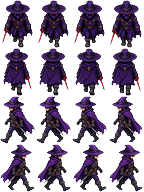
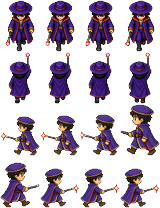
Sprite a volo d'uccello con arma che spara
Rigenera i 11 fogli in-game in vista dall'alto, ciascuno con bacchetta,
bastone o bottiglia puntata verso i nemici. I colpi partono dalla
bocca dell'arma invece che dal petto.

diff --git a/tempest.html b/tempest.html
@@ -295,6 +295,12 @@ function dirFromAngle(a){
   if(d<Math.PI*1.25)return 'left';
   return 'up';
 }
+function bodyY(e){return e.y-(e.sh||40)*0.38;}
+function muzzleOf(e,a,dist){
+  dist=dist==null?15:dist;
+  const y=bodyY(e);
+  return {x:e.x+Math.cos(a)*dist,y:y+Math.sin(a)*dist};
+}
 function loadAI(){
   const urls=Object.keys(AI_ASSETS);
   return Promise.all(urls.map(k=>new Promise(res=>{
@@ -510,7 +516,7 @@ miranda:{key:'miranda',name:'MIRANDA',title:"Figlia dell'isola, meraviglia",role
  last:'Ah, povero spirito... non volevo che finisse così. Che il cielo abbia pietà di noi.',
  lasten:'I have suffered with those that I saw suffer. (I.2)',
  banter:["«Ho sofferto con quelli che ho visto soffrire.»","«Che mondo nuovo è questo!»","«Abbi pietà: anche loro hanno paura.»","«Il cielo ci guarda, ne sono certa.»"],
- spr:{body:'dress',legs:'skirt',head:'long',weapon:'dagger'},
+ spr:{body:'dress',legs:'skirt',head:'long',weapon:'wand'},
  c:{main:'#8fb082',main2:'#dfe8d8',main3:'#f9fff4',dark:'#6b8a60',trim:'#f2c14e',skin:'#f0c09a',skinD:'#c08f68',hair:'#43291a',eye:'#2a1a2a',gem:'#fff6d0',boot:'#6b4a2a'},
  shot:{col:'#fff6d0',col2:'#f2c14e',r:2,kind:'thread'}},
 
@@ -529,7 +535,7 @@ ariel:{key:'ariel',name:'ARIEL',title:"Spirito dell'aria, servo a metà",role:'S
  last:"Libertà... era tutto ciò che chiedevo. Va': l'aria è tua, e io sono vento.",
  lasten:'Where the bee sucks, there suck I. (V.1)',
  banter:["«Dove succhia l'ape, succhio anch'io.»","«L'inferno è vuoto, e tutti i diavoli sono qui.»","«Sento la tempesta nelle ossa che non ho.»","«Canti tu? Io canto meglio.»"],
- spr:{body:'tunic',legs:'wisp',head:'wind',weapon:'wind',wings:true},
+ spr:{body:'tunic',legs:'wisp',head:'wind',weapon:'wand',wings:true},
  c:{main:'#6fb6de',main2:'#bfe9ff',main3:'#eafaff',dark:'#3f80a8',trim:'#f2e6a0',skin:'#dff2ff',skinD:'#a8d4ea',hair:'#9fd8f0',eye:'#0e3a52',gem:'#ffffff',boot:'#6fb6de'},
  shot:{col:'#eafaff',col2:'#9fd8f0',r:2,kind:'dart'}},
 
@@ -548,7 +554,7 @@ caliban:{key:'caliban',name:'CALIBAN',title:'Il selvaggio, figlio di Sicorace',r
  last:"Sarò saggio d'ora in poi, e cercherò la grazia. Che triplice asino sono stato, a prendere quell'ubriaco per un dio!",
  lasten:"I'll be wise hereafter, and seek for grace. (V.1)",
  banter:["«Non temere: l'isola è piena di dolci arie.»","«Questa terra è mia di diritto.»","«Non pungermi, spirito!»","«Gratta... sì, proprio lì.»"],
- spr:{body:'bare',legs:'bare',head:'wild',weapon:'claw',hunch:true},
+ spr:{body:'bare',legs:'bare',head:'wild',weapon:'staff',hunch:true},
  c:{main:'#5c7a44',main2:'#7a9c58',main3:'#a8c87c',dark:'#3b5230',trim:'#8a6a3a',skin:'#6d8f52',skinD:'#4a6636',hair:'#1d1a16',eye:'#ffd23a',gem:'#c8ff6a',boot:'#4a3a24'},
  shot:{col:'#b09a78',col2:'#e0d0b0',r:4,kind:'rock'}},
 
@@ -566,7 +572,7 @@ ferdinando:{key:'ferdinando',name:'FERDINANDO',title:'Principe di Napoli',role:'
  last:"Che il mondo nuovo che ho sognato non sia fatto del tuo stesso acciaio... Addio.",
  lasten:'Full many a lady I have eyed with best regard. (I.2)',
  banter:["«Per l'onore di Napoli!»","«Il lavoro più duro mi è dolce, se guardo avanti.»","«Questa musica viene dall'aria, o dalla mia testa?»","«Non indietreggio: sono un principe.»"],
- spr:{body:'tunic',legs:'pants',head:'plume',weapon:'sword'},
+ spr:{body:'tunic',legs:'pants',head:'plume',weapon:'scepter'},
  c:{main:'#8a2436',main2:'#b83a4a',main3:'#e8808f',dark:'#571420',trim:'#f2c14e',skin:'#eab892',skinD:'#c08a62',hair:'#6b4a2a',eye:'#1b1030',gem:'#dfe4ee',boot:'#3a2a1c'},
  shot:{col:'#dfe4ee',col2:'#ffffff',r:3,kind:'dart'}},
 
@@ -584,7 +590,7 @@ antonio:{key:'antonio',name:'ANTONIO',title:'L\'usurpatore, fratello traditore',
  last:"La verità che dico... manca di gentilezza. Fa' quel che devi: il potere non chiede perdono.",
  lasten:"I'll do my best to obtain forgiveness. (V.1)",
  banter:["«Ciò che è mio, lo prendo.»","«Il silenzio è la lama migliore.»","«Non fidarti: neppure di me.»","«Un altro gradino, e la corona è mia.»"],
- spr:{body:'robe',legs:'robe',head:'wide',weapon:'rapier'},
+ spr:{body:'robe',legs:'robe',head:'wide',weapon:'wand'},
  c:{main:'#241c34',main2:'#3a2c50',main3:'#6a5688',dark:'#140f20',trim:'#a02030',skin:'#dca87e',skinD:'#a87850',hair:'#1a1418',eye:'#c8304a',gem:'#a02030',boot:'#1a1418'},
  shot:{col:'#ff6a7a',col2:'#ffd0d8',r:3,kind:'bolt'}},
 
@@ -602,7 +608,7 @@ trinculo:{key:'trinculo',name:'TRINCULO',title:'Il buffone sopravvissuto',role:'
  last:"Che cos'abbiamo qui, un uomo o un pesce?... Va bene: ho perso. Suona i sonagli, buffone.",
  lasten:'What have we here? a man or a fish? (II.2)',
  banter:["«Che cos'abbiamo qui: un uomo o un pesce?»","«Quando ero a casa, ero in un posto migliore.»","«Se piove, mi nascondo sotto il mostro.»","«Non sono un codardo: sono prudente.»"],
- spr:{body:'rag',legs:'pants',head:'jester',weapon:'bell'},
+ spr:{body:'rag',legs:'pants',head:'jester',weapon:'wand'},
  c:{main:'#c8a020',main2:'#e8c840',main3:'#ffe98a',dark:'#8a6a10',trim:'#c83a4a',skin:'#f0c09a',skinD:'#c08f68',hair:'#8a5a2a',eye:'#2a1a2a',gem:'#8ef4ff',boot:'#5a4020'},
  shot:{col:'#ffe98a',col2:'#ffffff',r:2,kind:'orb'}},
 
@@ -633,7 +639,7 @@ const FOES={
        shot:{col:'#c9a6ff',col2:'#f0e0ff',r:3,kind:'orb'}},
  mutin:{name:'AMMUTINATO',spr:'mutin',sw:28,sh:34,hp:44,spd:1.0,r:9,dmg:9,rate:1.65,pspeed:2.75,range:205,score:110,aggro:235,
        shot:{col:'#ffcf6a',col2:'#fff0c0',r:2,kind:'bolt'},
-       cfg:{body:'rag',legs:'pants',head:'bandana',weapon:'cutlass'},
+       cfg:{body:'rag',legs:'pants',head:'bandana',weapon:'bottle'},
        c:{main:'#6a5a44',main2:'#8a7654',main3:'#ab9874',dark:'#463a2a',trim:'#8a2a22',skin:'#9fb07a',skinD:'#74825a',hair:'#2a2018',eye:'#ff5a3a',gem:'#dfe4ee',boot:'#3a2c1c'}}
 };
 
@@ -803,9 +809,14 @@ function drawHumanoid(g,cfg,variant,frame,opts){
     EL(g,cx,7+bob,6,3,C.main);R(g,cx-6,8+bob,12,2,C.main2);R(g,cx-6,10+bob,12,1,C.dark);R(g,cx-5,10+bob,10,3,C.hair);
   }
   const ax=atk?2:0;
-  if(S.weapon==='staff'){
-    R(g,cx+9+ax,2,2,29,'#5c3f22');R(g,cx+9+ax,2,1,29,'#8a6a3a');
+  if(S.weapon==='staff'||S.weapon==='scepter'){
+    const wood=S.weapon==='scepter'?'#d4b44a':'#5c3f22';
+    const wood2=S.weapon==='scepter'?'#ffe14a':'#8a6a3a';
+    R(g,cx+9+ax,2,2,29,wood);R(g,cx+9+ax,2,1,29,wood2);
     EL(g,cx+10+ax,3,4,4,shade(C.gem,.7));EL(g,cx+10+ax,3,3,3,C.gem);R(g,cx+10+ax,2,1,1,'#ffffff');
+  }else if(S.weapon==='wand'){
+    R(g,cx+10+ax,8,2,22,'#c8d0dc');R(g,cx+10+ax,8,1,22,'#ffffff');
+    EL(g,cx+11+ax,6,3,3,C.gem);R(g,cx+10+ax,5,2,2,'#fff6d0');
   }else if(S.weapon==='claw'){
     for(let i=0;i<3;i++)R(g,cx+7+ax,22+i*2+bob,5,1,'#e8e0c8');
     R(g,cx+6+ax,21+bob,3,6,C.skinD);
@@ -1535,6 +1546,7 @@ function heroFire(h){
   const dmg=d.dmg*mult;
   h.atkT=.16;
   const a=h.aimA;
+  const mz=muzzleOf(h,a,16);
   if(d.hybrid){
     let near=null,nd=1e9;
     for(const e of G.ents){if(!isFoe(e))continue;
@@ -1542,14 +1554,14 @@ function heroFire(h){
     if(near){
       damage(near,dmg*1.4,'good');
       for(let i=0;i<8;i++){const aa=a+rnd(-.7,.7);
-        addPart(h.x+Math.cos(aa)*16,h.y-12+Math.sin(aa)*16,Math.cos(aa)*2.4,Math.sin(aa)*2.4,.22,d.shot.col2,2);}
+        addPart(mz.x+Math.cos(aa)*4,mz.y+Math.sin(aa)*4,Math.cos(aa)*2.4,Math.sin(aa)*2.4,.22,d.shot.col2,2);}
       SND.tone(240,.09,'sawtooth',.11,.6);
       return;
     }
   }
-  addShot(h.x+Math.cos(a)*12,h.y-14+Math.sin(a)*12,a,d.pspeed,dmg,
+  addShot(mz.x,mz.y,a,d.pspeed,dmg,
     (h.kind==='foe'||h.kind==='boss')?'bad':'good',d.shot);
-  for(let i=0;i<3;i++)addPart(h.x+Math.cos(a)*14,h.y-14+Math.sin(a)*14,
+  for(let i=0;i<3;i++)addPart(mz.x,mz.y,
     Math.cos(a)*rnd(.3,1.2)+rnd(-.5,.5),Math.sin(a)*rnd(.3,1.2)+rnd(-.5,.5),.2,d.shot.col,2);
   SND.shoot(d.shot.kind);
 }
@@ -1672,7 +1684,7 @@ function update(dt){
 }
 function autoAim(h){
   const t=nearestFoe(h.x,h.y,h.def.range*1.15);
-  if(t){h.aimA=Math.atan2((t.y-(t.sh||30)*.4)-(h.y-14),t.x-h.x);return true;}
+  if(t){h.aimA=Math.atan2(bodyY(t)-bodyY(h),t.x-h.x);return true;}
   return false;
 }
 function updateHero(h,dt,isMate){
@@ -1720,7 +1732,7 @@ function updateHero(h,dt,isMate){
       if(!autoAim(h)&&(mx||my))h.aimA=Math.atan2(my,mx);
       wantFire=true;
     }else if(mouse.used&&!IS_TOUCH){
-      h.aimA=Math.atan2((mouse.y+G.cam.sy)-(h.y-14),(mouse.x+G.cam.sx)-h.x);
+      h.aimA=Math.atan2((mouse.y+G.cam.sy)-bodyY(h),(mouse.x+G.cam.sx)-h.x);
     }else if(mx||my)h.aimA=Math.atan2(my,mx);
     wantFire=wantFire||mouse.down||!!keys['Space'];
     if((keys['ShiftLeft']||keys['ShiftRight']||keys['KeyE']||TCH.spec)&&h.specCd<=0)useSpecial(h);
@@ -1761,7 +1773,7 @@ function mateThink(m,dt){
     out.mx=Math.cos(a)*mv+Math.cos(a+1.57)*Math.sin(G.t*.8)*.45;
     out.my=Math.sin(a)*mv+Math.sin(a+1.57)*Math.sin(G.t*.8)*.45;
     m.aimA=a;
-    if(m.cool<=0&&bd<m.def.range*1.1&&los(m.x,m.y-14,tgt.x,tgt.y-12)){heroFire(m);m.cool=m.def.rate;}
+    if(m.cool<=0&&bd<m.def.range*1.1&&los(m.x,bodyY(m),tgt.x,bodyY(tgt))){heroFire(m);m.cool=m.def.rate;}
     if(m.specCd<=0&&(bd<95||m.hp<m.maxhp*.45))useSpecial(m);
   }else{
     const p=G.hero,d=Math.hypot(p.x-m.x,p.y-m.y);
@@ -1816,9 +1828,11 @@ function updateFoes(dt){
         mvx=Math.cos(a)*mv+Math.cos(a+1.57)*Math.sin(G.t*1.3+e.x)*.5;
         mvy=Math.sin(a)*mv+Math.sin(a+1.57)*Math.sin(G.t*1.3+e.x)*.5;
         e.cool-=dt;
-        if(e.cool<=0&&d<e.range&&los(e.x,e.y-10,target.x,target.y-12)){
+        if(e.cool<=0&&d<e.range&&los(e.x,bodyY(e),target.x,bodyY(target))){
           e.cool=e.rate*rnd(.85,1.2);e.atkT=.18;
-          addShot(e.x,e.y-12,Math.atan2((target.y-12)-(e.y-12),target.x-e.x)+rnd(-.07,.07),e.pspeed,e.dmg*.8,'bad',e.shot);
+          const aa=Math.atan2(bodyY(target)-bodyY(e),target.x-e.x)+rnd(-.07,.07);
+          const mz=muzzleOf(e,aa,14);
+          addShot(mz.x,mz.y,aa,e.pspeed,e.dmg*.8,'bad',e.shot);
           SND.tone(300,.09,'sawtooth',.06,.5);
         }
       }
@@ -1868,16 +1882,16 @@ function updateBoss(dt){
       msg('IL '+b.name+' EVOCA I SUOI SERVI!',2);
     }else if(b.ai.mode==='ring'){
       SND.spec();const n=14+b.ai.ph*4;
-      for(let i=0;i<n;i++)addShot(b.x,b.y-26,(i/n)*6.283+G.t*.4,2.3+b.ai.ph*.3,b.dmg*.55,'bad',{col:'#c9a6ff',col2:'#fff',r:4,kind:'orb'});
+      for(let i=0;i<n;i++){const aa=(i/n)*6.283+G.t*.4,mz=muzzleOf(b,aa,18);addShot(mz.x,mz.y,aa,2.3+b.ai.ph*.3,b.dmg*.55,'bad',{col:'#c9a6ff',col2:'#fff',r:4,kind:'orb'});}
       G.cam.shake=6;
     }else if(b.ai.mode==='spread'){
       const n=5+b.ai.ph*2;
-      for(let i=0;i<n;i++)addShot(b.x,b.y-26,a+(i-(n-1)/2)*.17,b.pspeed,b.dmg*.5,'bad',b.shot);
+      for(let i=0;i<n;i++){const aa=a+(i-(n-1)/2)*.17,mz=muzzleOf(b,aa,18);addShot(mz.x,mz.y,aa,b.pspeed,b.dmg*.5,'bad',b.shot);}
       b.atkT=.2;SND.shoot(b.shot.kind);
     }else if(b.ai.mode==='beam'){
       SND.spec();b.atkT=.3;
       for(let i=0;i<8;i++)setTimeout(()=>{if(b.dead||G.screen!=='play')return;
-        addShot(b.x,b.y-26,a+rnd(-.07,.07),4.6,b.dmg*.45,'bad',{col:'#ff9a70',col2:'#fff',r:3,kind:'bolt'});},i*80);
+        const aa=a+rnd(-.07,.07),mz=muzzleOf(b,aa,18);addShot(mz.x,mz.y,aa,4.6,b.dmg*.45,'bad',{col:'#ff9a70',col2:'#fff',r:3,kind:'bolt'});},i*80);
     }
   }
   let mvx=Math.cos(a),mvy=Math.sin(a);
@@ -1917,12 +1931,12 @@ function updateShots(dt){
     if(s.owner==='good'){
       for(const e of G.ents){
         if(!isFoe(e))continue;
-        if(Math.hypot(e.x-s.x,(e.y-(e.sh||30)*.5)-s.y)<e.r+s.r+4){damage(e,s.dmg,'good');hit=true;break;}
+        if(Math.hypot(e.x-s.x,bodyY(e)-s.y)<e.r+s.r+4){damage(e,s.dmg,'good');hit=true;break;}
       }
     }else{
       for(const h of[G.hero,G.mate]){
         if(h.down>0||h.inv>0||h.ghost>0||h.dead)continue;
-        if(Math.hypot(h.x-s.x,(h.y-14)-s.y)<h.r+s.r+3){damage(h,s.dmg,'bad');h.inv=.35;G.cam.shake=Math.max(G.cam.shake,4);hit=true;break;}
+        if(Math.hypot(h.x-s.x,bodyY(h)-s.y)<h.r+s.r+3){damage(h,s.dmg,'bad');h.inv=.35;G.cam.shake=Math.max(G.cam.shake,4);hit=true;break;}
       }
     }
     if(hit){boom(s.x,s.y,s.col,5,2);G.shots.splice(i,1);}

diff --git a/tools/process_wc.py b/tools/process_wc.py
@@ -33,12 +33,16 @@ def is_chroma(rgb):
     r = rgb[..., 0].astype(np.float32)
     g = rgb[..., 1].astype(np.float32)
     b = rgb[..., 2].astype(np.float32)
-    mag = np.sqrt((r - 255.0) ** 2 + (g - 0.0) ** 2 + (b - 255.0) ** 2) < 110
+    mag = np.sqrt((r - 255.0) ** 2 + (g - 0.0) ** 2 + (b - 255.0) ** 2) < 125
     # hot pink / rose used by the image model (e.g. 218,7,120)
     pink = (r > 160) & (g < 90) & (b > 70) & (b > g + 25) & (r > g + 70) & (r + b > 2 * g + 90)
     # near-sampled fuchsia with low green
     fuch = (r > 190) & (g < 60) & (b > 90)
-    return mag | pink | fuch
+    # JPEG-compressed magenta (#FF00AA-ish)
+    jpeg_mag = (r > 200) & (g < 55) & (b > 140) & (r > g + 100)
+    # lime / green screens (used when magenta would eat purple wisps)
+    lime = (g > 170) & (r < 140) & (b < 140) & (g > r + 50) & (g > b + 40)
+    return mag | pink | fuch | jpeg_mag | lime
 
 
 def flood_chroma(arr):
@@ -56,7 +60,7 @@ def flood_chroma(arr):
     )
     bg = np.median(border.astype(np.float32), axis=0)
     dist = np.linalg.norm(rgb.astype(np.float32) - bg, axis=2)
-    cand |= dist < 62
+    cand |= dist < 52
 
     mask = np.zeros((h, w), dtype=bool)
     q = deque()
@@ -83,7 +87,60 @@ def flood_chroma(arr):
     b = rgb[:, :, 2].astype(np.int32)
     fringe = (r > 140) & (g < 110) & (b > 60) & (b > g) & (r > g + 40)
     mask |= dilate(mask, 1) & fringe
-    return dilate(mask, 2)
+    return dilate(mask, 1)
+
+
+def largest_blob(arr):
+    """Keep only the biggest opaque island so leftover grid specks don't inflate the crop."""
+    a = arr[:, :, 3] > 20
+    try:
+        from scipy.ndimage import label
+        lab, n = label(a)
+        if n == 0:
+            return arr
+        counts = np.bincount(lab.ravel())
+        counts[0] = 0
+        keep = lab == counts.argmax()
+        out = arr.copy()
+        out[:, :, 3] = np.where(keep, arr[:, :, 3], 0)
+        return out
+    except Exception:
+        pass
+    h, w = a.shape
+    vis = np.zeros((h, w), dtype=np.uint16)
+    best, best_n, lab = [], 0, 1
+    for y in range(h):
+        for x in range(w):
+            if not a[y, x] or vis[y, x]:
+                continue
+            q = deque([(y, x)])
+            vis[y, x] = lab
+            cells = [(y, x)]
+            while q:
+                cy, cx = q.popleft()
+                for ny, nx in (
+                    (cy - 1, cx),
+                    (cy + 1, cx),
+                    (cy, cx - 1),
+                    (cy, cx + 1),
+                ):
+                    if 0 <= ny < h and 0 <= nx < w and a[ny, nx] and not vis[ny, nx]:
+                        vis[ny, nx] = lab
+                        q.append((ny, nx))
+                        cells.append((ny, nx))
+            if len(cells) > best_n:
+                best, best_n = cells, len(cells)
+            lab += 1
+            if lab > 4000:
+                break
+    if best_n < 40:
+        return arr
+    keep = np.zeros((h, w), dtype=bool)
+    for y, x in best:
+        keep[y, x] = True
+    out = arr.copy()
+    out[:, :, 3] = np.where(keep, arr[:, :, 3], 0)
+    return out
 
 
 def key_image(im):
@@ -91,10 +148,12 @@ def key_image(im):
     arr = np.array(im)
     mask = flood_chroma(arr)
     arr[:, :, 3] = np.where(mask, 0, arr[:, :, 3]).astype(np.uint8)
-    r, g, b, a = arr[:, :, 0], arr[:, :, 1], arr[:, :, 2], arr[:, :, 3]
-    leftover = (a > 0) & is_chroma(arr[:, :, :3])
-    arr[leftover, 3] = 0
-    return Image.fromarray(arr)
+    # leftover grid / JPEG fringe on the cell frame
+    arr[:5, :, 3] = 0
+    arr[-5:, :, 3] = 0
+    arr[:, :5, 3] = 0
+    arr[:, -5:, 3] = 0
+    return Image.fromarray(largest_blob(arr))
 
 
 def crop_alpha(img, pad=2):
@@ -126,15 +185,37 @@ def fit_on(canvas_w, canvas_h, spr):
     return out
 
 
-def split_rows(name, cols=4, rows=2, fw=36, fh=48):
-    raw = Image.open(SRC / name).convert("RGBA")
+def load_sheet(stem):
+    """Prefer the newest bird's-eye JPEG over leftover 3/4 PNG sheets."""
+    found = []
+    for ext in (".jpg", ".jpeg", ".png"):
+        p = SRC / f"{stem}{ext}"
+        if p.exists():
+            found.append(p)
+    if not found:
+        raise FileNotFoundError(stem)
+    found.sort(key=lambda p: p.stat().st_mtime, reverse=True)
+    return Image.open(found[0]).convert("RGBA")
+
+
+def split_rows(stem, cols=4, rows=2, fw=40, fh=52):
+    raw = load_sheet(stem)
     w, h = raw.size
     cw, ch = w // cols, h // rows
+    # inset drops 1px black grid lines that some sheets include
+    inset = 8
     out = []
     for r in range(rows):
         row = []
         for c in range(cols):
-            cell = raw.crop((c * cw, r * ch, (c + 1) * cw, (r + 1) * ch))
+            cell = raw.crop(
+                (
+                    c * cw + inset,
+                    r * ch + inset,
+                    (c + 1) * cw - inset,
+                    (r + 1) * ch - inset,
+                )
+            )
             cell = key_image(cell)
             cell = crop_alpha(cell, pad=3)
             cell = outline(cell)
@@ -173,10 +254,10 @@ def save(im, name):
 
 
 def main():
-    fw, fh = 36, 48
+    fw, fh = 40, 52
     for k in CHARS:
-        ns = split_rows(f"wc_{k}_ns.png", fw=fw, fh=fh)
-        ew = split_rows(f"wc_{k}_ew.png", fw=fw, fh=fh)
+        ns = split_rows(f"wc_{k}_ns", fw=fw, fh=fh)
+        ew = split_rows(f"wc_{k}_ew", fw=fw, fh=fh)
         down, up = ns[0], ns[1]
         right, left = ew[0], ew[1]
         save(assemble([down, up, left, right], fw, fh), f"wc_{k}.png")
